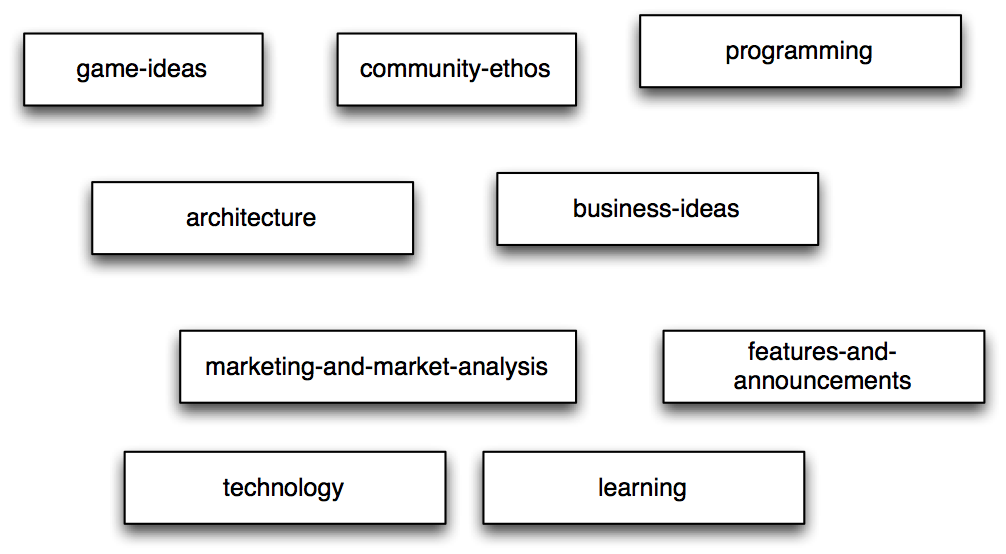
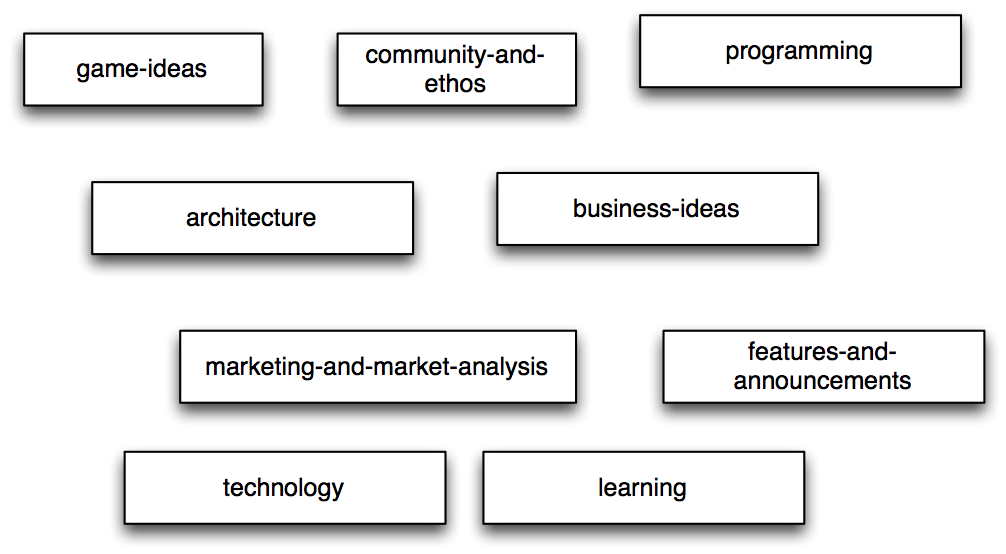
the FIX IS IN!

Changed region(s): [[0.339, 0.0614, 0.5547, 0.1841]]

diff --git a/themes/hugo_theme_robust_wordadoplicus/layouts/_default/single.html b/themes/hugo_theme_robust_wordadoplicus/layouts/_default/single.html
@@ -47,7 +47,6 @@
             <a href="http://www.facebook.com/sharer.php?src=bm&u={{ .Permalink }}&t={{ .Title }}" onclick="window.open(this.href, 'PCwindow', 'width=550, height=350, menubar=no, toolbar=no, scrollbars=yes'); return false;"><i class="fa fa-facebook"></i></a>
             <a href="http://twitter.com/intent/tweet?url={{ .Permalink }}&text={{ .Title }}&tw_p=tweetbutton" onclick="window.open(this.href, 'PCwindow', 'width=550, height=350, menubar=no, toolbar=no, scrollbars=yes'); return false;"><i class="fa fa-twitter"></i></a>
             <a href="https://plus.google.com/share?url={{ .Permalink }}" onclick="window.open(this.href, 'PCwindow', 'width=550, height=350, menubar=no, toolbar=no, scrollbars=yes'); return false;"><i class="fa fa-google-plus"></i></a>
-            <a href="http://getpocket.com/edit?url={{ .Permalink }}&title={{ .Title }}" onclick="window.open(this.href, 'PCwindow', 'width=550, height=350, menubar=no, toolbar=no, scrollbars=yes'); return false;"><i class="fa fa-get-pocket"></i></a>
           </div>
 
           {{ if and (ne .Site.Params.comment false) (ne .Params.comment false) }}

diff --git a/layouts/shortcodes/note.html b/layouts/shortcodes/note.html
@@ -1,3 +1,5 @@
 <div class="note">
-  {{.Inner }}
+
+{{ .Inner }}
+
 </div>

diff --git a/content/post/programming/why-erlang-and-elixir.md b/content/post/programming/why-erlang-and-elixir.md
@@ -4,34 +4,73 @@ draft = true
 title = "why erlang and elixir"
 image = "whyElixirAndErlang.png"
 tags = ["erlang","elixir" ] 
+categories = ["programming"]
 +++
 
 
-I had drawn the following picture while I was at the Elixir Conference in Austin this past October.  
+I drew the following picture while I was at the Elixir Conference in Austin this past October.  
 
  It displayed my understanding of the power and promise of Elixir, not as a
- completely new language with heretofore unknown features, but as the fulfillment of
+ completely new language with brand new features, but as the fulfillment of
  the underlying Erlang technology. And, for those of you who don't quite get
  the metaphor, Elixir is just the tip of the iceberg, as a massive ecosystem of
  Erlang lurks below.
 
 ![iceberg](/images/iceberg.png)
-
- Neither does this statement indict Erlang as ‘unfulfilled’ nor diminish Elixir
- as merely a technology that rides on the coattails of another.  I have extreme
+ 
+ Lest I offend, let it be clear that neither is Erlang  ‘unfulfilled’ nor is Elixir
+ merely a technology that rides on the coattails of another.  I have extreme
  respect for the decades of crazy good engineering that have gone into making
- Erlang exactly what it is, and likewise for Jose Valim et all for their
- judicious choices in crafting a new language that embraces and promote  the
+ Erlang exactly what it is, and likewise for Jose Valim et al. for their
+ judicious choices in crafting a new language that embraces and promotes  the
  engineering below it.
 
- I made this drawing to justify to myself why I was investing my time in either technology in order to implement my word-game community.
+ I made this drawing to justify to myself why I was investing my time in either
+technology in order to implement my word-game community [wordadoplicus](http://wordadoplicus.com).
 
- Erlang came first.  I chose it years ago, when I first put effort into this side-project with what freetime a consultant in the big data industry could muster.  Erlang’s features are perfectly aligned to the needs I had -- to create a highly concurrent swarm of real-time word-games (primarily boggle-based) that would be robust, that would be sparing with system resources, that would have high-uptime, and that could scale as the needs arose.  
+So Why Erlang?
+===== 
 
- The semantics of the actor model, wrapped around a dynamically typed functional language with a prolog heritage seemed like just the mental model I needed to force me to design properly from the get-go.  I had been sold on functional years ago.  And so Erlang as a language with a opinionated message-passing semantic seemed a proper investment. 
+ Erlang came first.  I chose it years ago, when I first started on this
+side-project with the tiny amount of free time a consultant in the big data industry could
+muster.  
 
- As time went on, my understanding of the Erlang ecosystem justified this investment, not just from the semantic but from the years of solid engineering that went into supporting this semantic:  the BEAM virtual machine (with its reductions and preemptive scheduling), the OTP framework (supervisors, server and FSM behaviors), the networking to marshall messages across distributed nodes, and all the other features that both arose from the marriage of functional idioms and the protocol-implementation heritage of Erlang’s telephonic products (pattern matching on binaries!  brilliant!).
+Erlang’s features are perfectly aligned to the needs I have -- to
+create a system hosting many highly concurrent real-time word-games (primarily
+boggle-based) that would be robust, that would be sparing with system
+resources, that would have high-uptime, and that could scale as the needs
+arose.  
 
- Unlike some others, I have no problem with the Erlang syntax or tooling.  I find the syntax neither weird nor off-putting -- although in my first few weeks of programming, I had to repeat to myself the mantra that “comma mean ‘and-then-do’ while semi-colon means ‘or-do-this-instead’”.  
+ The semantics of the actor model, wrapped around a dynamically typed
+functional language with a prolog heritage seemed like just the mental model I
+needed to force me to design properly from the get-go.  I had been sold on
+functional years ago.  And so Erlang as a language with a opinionated
+message-passing semantic seemed a proper investment. 
 
- Most of my word-game community (primarily the games) are implemented in Erlang, using great libraries like Cowboy for pooling websocket handlers, gproc for knowing where my processes are (and assigning them metadata), and lager.  I have followed all the books and blog posts and have built the back-end engine using OTP concepts (I have supervisors and gen_fsm’s and gen_servers and SASL) and have wrapped everything up using applications and releases, and community.
+ As time went on, my understanding of the Erlang ecosystem justified this
+investment, not just from the semantic but from the years of solid engineering
+that went into supporting this semantic:  the BEAM virtual machine (with its
+reductions and preemptive scheduling), the OTP framework (supervisors, server
+and FSM behaviors), the networking to marshall messages across distributed
+nodes, and all the other features that both arose from the marriage of
+functional idioms and the protocol-implementation heritage of Erlang’s
+telephonic products (pattern matching on binaries!  brilliant!).
+
+ Unlike some others, I have no problem with the Erlang syntax or tooling.  I
+find the syntax neither weird nor off-putting -- although in my first few weeks
+of programming, I had to repeat to myself the mantra that “commas mean
+**‘and-then-do’** while semi-colons mean **‘or-do-this-instead’**”.  
+
+ Most of my word-game community (primarily the games) are implemented in
+Erlang, using great libraries like Cowboy for pooling websocket handlers, gproc
+for knowing where my processes are (and assigning them metadata), and lager.  I
+have followed all the books and blog posts and have built the back-end engine
+using OTP concepts (I have supervisors and gen_fsm’s and gen_servers and SASL)
+and have wrapped everything up using applications and releases, and community.
+
+
+
+So Why Elixir?
+===== 
+
+Two reasons: Macros and Ecto.

diff --git a/content/post/learning/category-definitions.md b/content/post/learning/category-definitions.md
@@ -2,25 +2,75 @@
 date = "2016-04-12T16:10:46Z"
 draft = true
 title = "category definitions"
-
+categories = ["learning"]
 +++
 
 ![iceberg](/images/categories.png)
 
-I am taking advantage of Hugo, the static site generator, to produce this blog site.  One of the things it encourages is the use of taxonomies, including categories, which you can see over there on the right.  
-
-The above image I threw together in Omnigraffle to enumerate the categories.  
+I am taking advantage of Hugo, the static site generator, to produce this blog
+site.  One of the things it encourages is the use of taxonomies, including
+categories, which you can see over there on the right.  The above image I threw
+together in Omnigraffle to enumerate the categories.  
 
 Here are the definitions:
 
   - **game-ideas**
 
-All posts within this category are about **ideas** for word games and the technical and social challenges in implementing them.  They might be pie-in-the-sky or imminent.  
+All posts within this category are about **ideas** for word games and the
+technical and social challenges in implementing them.  They might be
+pie-in-the-sky or imminent.  
 
-  - **community-ethos** 
+  - **community-and-ethos** 
+
+Any post concerning itself with the overarching community ideal: how the
+community evolves, what prinpciples are supported, how we expect to comport
+ourselves, how the forum is to be administered and grown and nurtured, how new
+game ideas should be communicated, how abusive behavior is to be tolerated (or
+not), how fast people can expect responses, etc.
+
+Most importantly, this category will host any post explaining the ideals of
+what [Wordadoplicus](http://wordadoplicus.com) is about: from its notion of evolving games, to word game
+DNA, to involving the community.
+ 
   - **programming** 
+  
+Anything to do with programming will belong in this category. The question of
+what is programming versus architecture is not always an easy one.  The rule of
+thumb, is that if the post is about one language or the challenges involved in
+one process space, then it is *programming*. 
+
   - **architecture**
-  - **marketing-and-market-analysis**
-  - **features-and-announcements**
+  
+Any work created that involves coordinating multiple processes, deploying
+machines (virtual, containerized), networking, CDNs, cloud, docker, vagrant,
+AWS, s3, bash, etc. will go here.  Development practices, including testing and
+develop/deploy strategies should go here. 
+
   - **technology**
 
+A general catch-all for posts that aren't quite programming nor architecture.
+Even non-Wordadoplicus stuff could go here, if it scratches an itch.
+  
+  - **marketing-and-market-analysis**
+  
+What other games are out there that might be fun to emulate, improve on, or
+learn from.  What are the demographics associated with word game playing?  Are
+there some games that attract some types of players over others?  How does
+internationalization matter to market reach?  What are the ways to categorize
+both on-line and paper or board-based games?
+
+  - **features-and-announcements**
+
+New game announcements would go here, as well as site-wide or forum features.
+
+  - **learning**
+
+Another, catch-all category.  The posts featured here are more concerned with
+the messy and sometimes painful process of learning.   Sometimes non-technology
+learnings will go here.   Most importantly, any post that might be useful to
+explain the motivations in why something was done with the Wordadoplicus would go here.
+Thus, this post, is under the learning category.  
+
+It may provide learning for someone else in the future.[^1]
+
+[^1]: "someone else" includes this post's author at any time in the future.

diff --git a/content/post/architecture/site-architecture.md b/content/post/architecture/site-architecture.md
@@ -3,6 +3,10 @@ date = "2016-03-23T11:36:29-04:00"
 title = "Wordadoplicus Site Architecture"
 image = "typewriter-1138293_1920.png"
 author = "Daniel Eklund"
+tags = ["s3","cloudfront","cdn","rds","discourse","dns","ssl","hugo"]
+categories = ["architecture"]
+
+
 +++
 
 Architecture is an overloaded term. In this blog post, we mean architecture to  

diff --git a/content/post/programming/erlang-and-elixir-feet-wet.md b/content/post/programming/erlang-and-elixir-feet-wet.md
@@ -2,8 +2,9 @@
 date = "2016-04-12T15:37:39Z"
 draft = true
 title = "erlang and elixir feet wet"
-tags = ["erlang","elixir" ] 
+tags = ["erlang","elixir" ,"docker"] 
 image = "elixirAndErlang.png"
+categories = ["programming"]
 +++
 {{< rule title="Rule 1:">}}
   Get an Elixir Release.  It contains Erlang, but not Vice Versa

diff --git a/content/post/programming/getting-erlang-and-elixir-to-play-nice.md b/content/post/programming/getting-erlang-and-elixir-to-play-nice.md
@@ -4,6 +4,7 @@ draft = true
 title = "getting erlang and elixir to play nice"
 tags = ["erlang","elixir" ] 
 image = "elixirAndErlang.png"
+categories = ["programming"]
 
 +++
 
